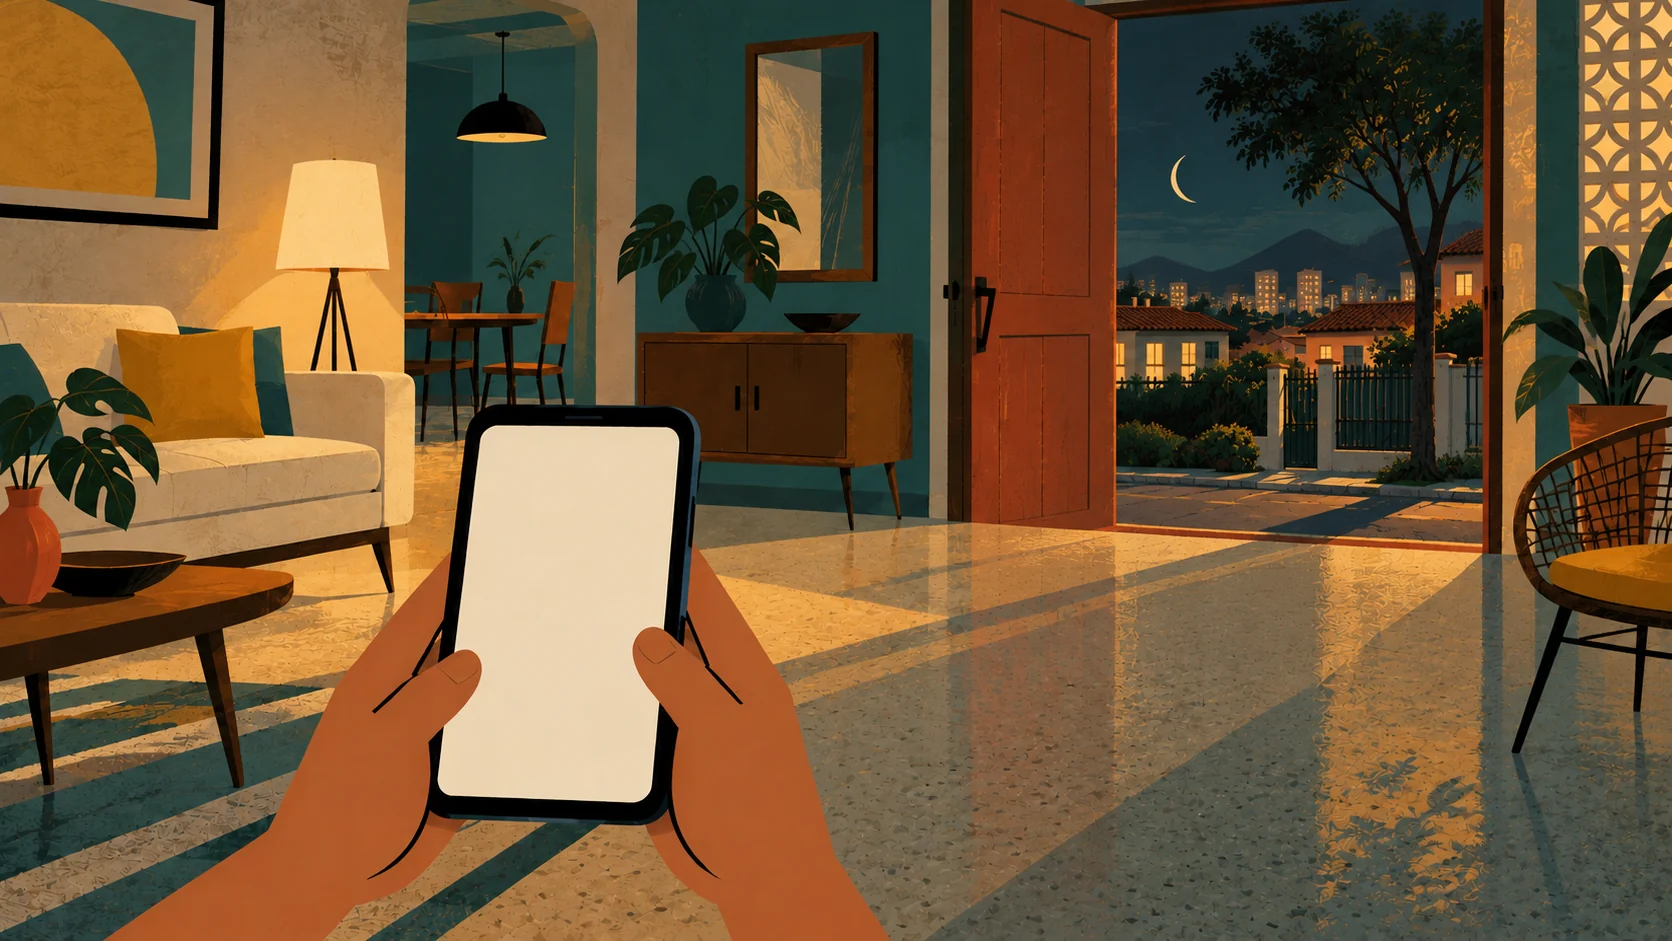
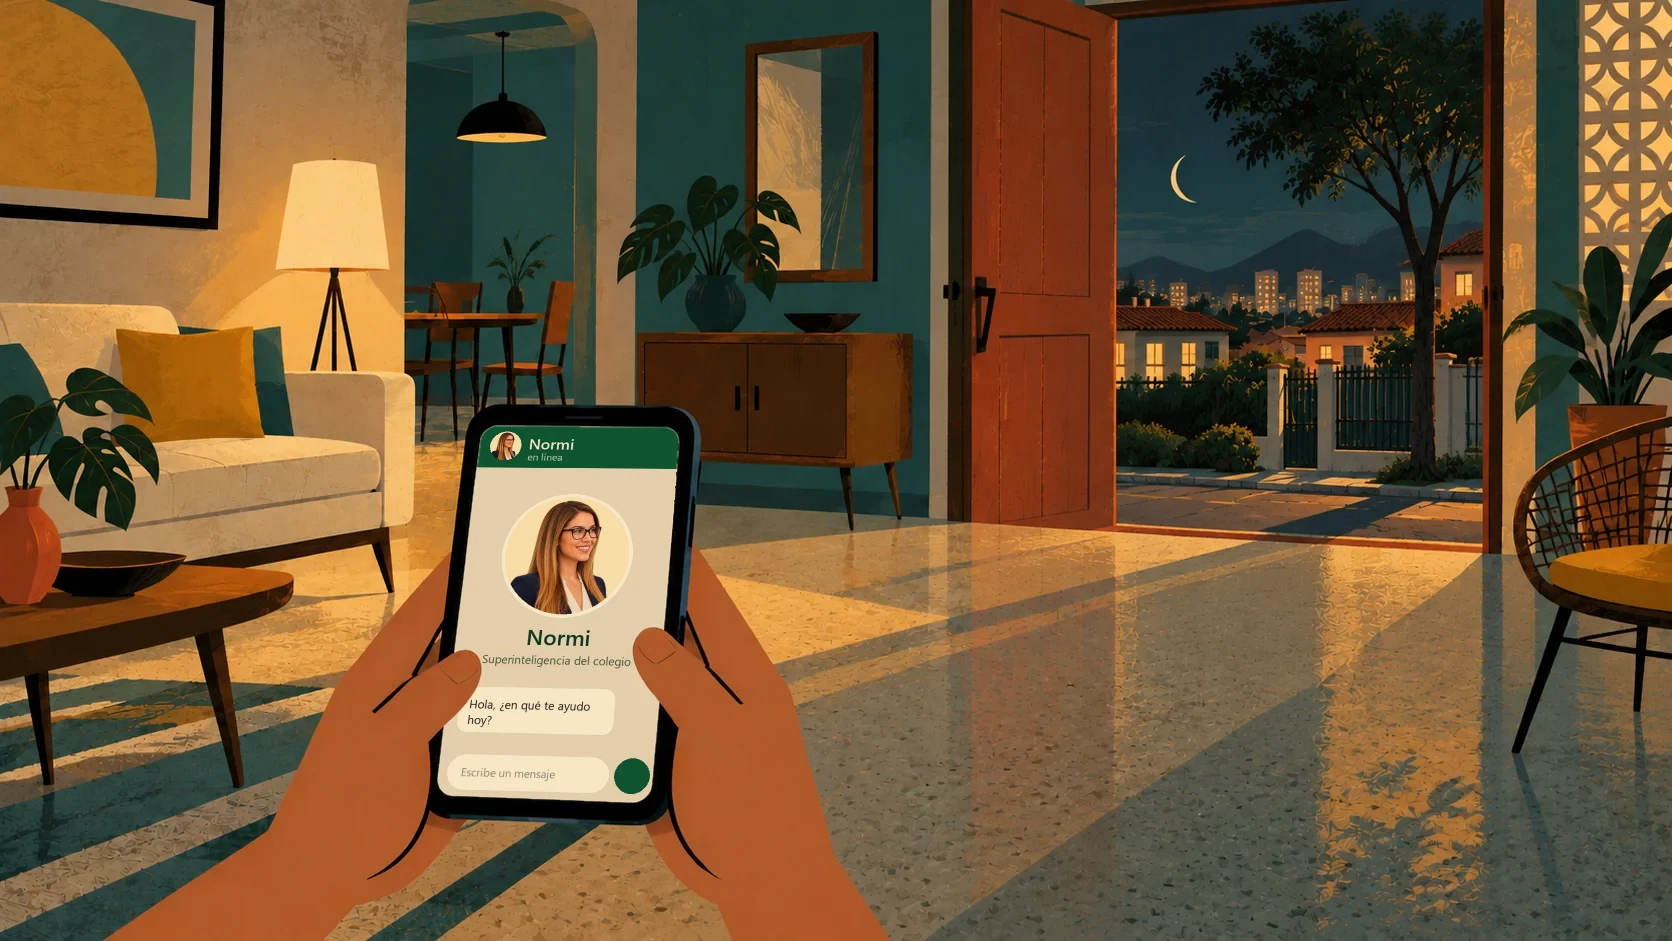
Misión Normi: Normi aparece en la pantalla del celular del capítulo 3; el final ya no menciona Matemáticas (el motivo era la discusión con Sofía)

diff --git a/public/mision/index.html b/public/mision/index.html
@@ -198,7 +198,7 @@
 <!-- ESCENA 3 -->
 <section class="pantalla" id="e3">
   <div class="escenario">
-    <img class="fondo" src="noche.webp" alt="De noche, el celular en las manos">
+    <img class="fondo" src="noche.webp?v=2" alt="De noche, el celular en las manos">
     <div class="brillo"></div>
   </div>
   <div class="tarjeta papel">
@@ -247,7 +247,7 @@
   </div>
   <div class="tarjeta papel">
     <h3>¡Misión cumplida!</h3>
-    <p><b>Valentina había discutido con su mejor amiga, Sofía,</b> y además perdió la evaluación de Matemáticas. Lo descubriste en minutos, sin llamar al colegio ni esperar la reunión de padres, y esta noche pudiste estar ahí para ella. Así acompaña Normi a las familias todos los días.</p>
+    <p><b>Valentina había discutido con su mejor amiga, Sofía.</b> Lo descubriste en minutos, sin llamar al colegio ni esperar la reunión de padres, y esta noche pudiste estar ahí para ella. Así acompaña Normi a las familias todos los días.</p>
     <p class="cree">En <b>Cailico</b> creemos que la superinteligencia es el motor de desarrollo más grande de la historia. <b>Mundo Normi</b> es nuestra infraestructura de superinteligencia para la gestión y comunicación educativa.</p>
     <div class="acciones">
       <a class="boton verde" href="https://wa.me/573016241863?text=Hola%2C%20jugu%C3%A9%20Misi%C3%B3n%20Normi%20y%20quiero%20Mundo%20Normi%20en%20mi%20colegio" target="_blank" rel="noopener">Quiero Mundo Normi en mi colegio</a>
